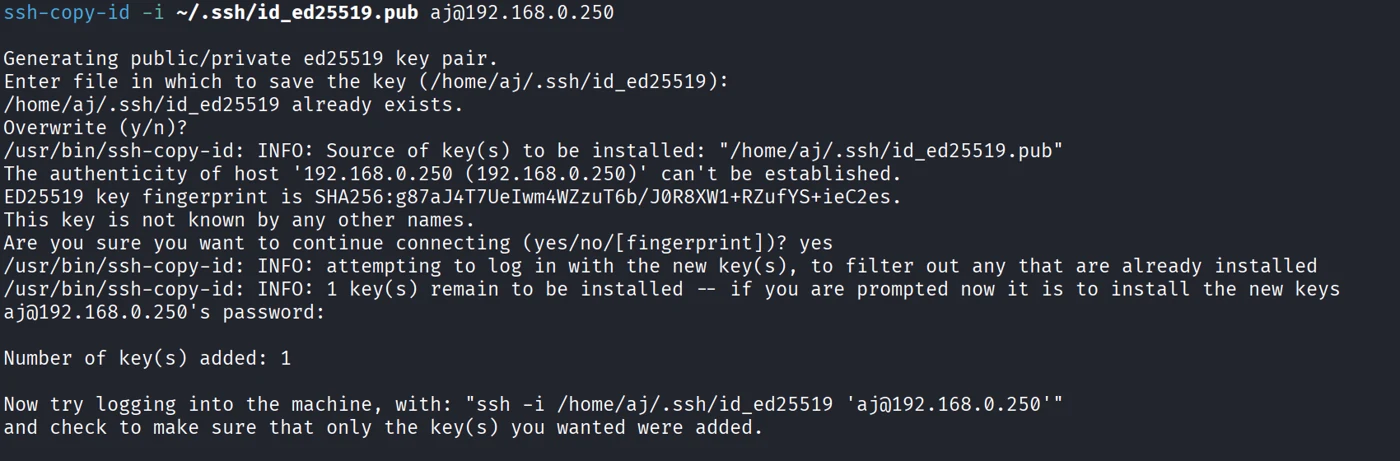
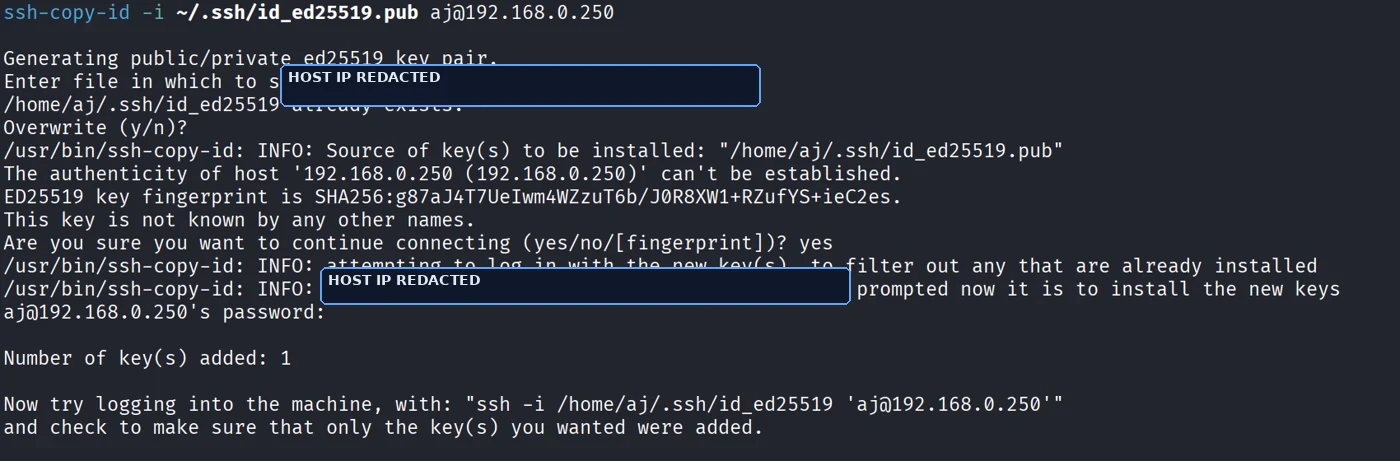
Linux lab
added 6.13.26
added linux lab to website

Changed region(s): [[0.1843, 0.1215, 0.5529, 0.243], [0.215, 0.577, 0.6143, 0.6681]]

diff --git a/website/linux-hardening-case-study.html b/website/linux-hardening-case-study.html
@@ -76,8 +76,8 @@
               <h2 class="text-2xl font-semibold text-white mb-3">Lab context and design</h2>
               <p class="text-aj-ink-soft mb-4">This project hardens an Ubuntu host used for administration in a lab environment. The defensive design is simple and intentional: leave outbound traffic available, deny inbound traffic by default, allow SSH only from a trusted Kali host, then move SSH to key-only access and validate that recovery steps exist if anything breaks.</p>
               <ul class="text-aj-ink-soft text-sm space-y-2 list-disc ml-5">
-                <li><strong class="text-white">System being hardened:</strong> Ubuntu / Wazuh Manager host at <code class="text-slate-300">192.168.0.250</code></li>
-                <li><strong class="text-white">Trusted admin host:</strong> Kali Linux at <code class="text-slate-300">192.168.0.93</code></li>
+                <li><strong class="text-white">System being hardened:</strong> Ubuntu / Wazuh Manager host at <code class="text-slate-300"><HOST_IP></code></li>
+                <li><strong class="text-white">Trusted admin host:</strong> Kali Linux at <code class="text-slate-300"><ADMIN_IP></code></li>
                 <li><strong class="text-white">Core services:</strong> UFW and OpenSSH</li>
               </ul>
             </div>
@@ -157,7 +157,7 @@
               <img src="assets/linux-hardening/rollback-sequence.webp" alt="Composite image showing numbered UFW status, deletion of the SSH rule, UFW reset, UFW disable, and SSH restart steps used for rollback and recovery." />
               <figcaption>Rollback sequence: review the rule, delete it if necessary, reset or disable UFW, and restart SSH after configuration changes.</figcaption>
             </figure>
-            <div class="callout mt-4"><strong class="text-white">Recruiter takeaway:</strong> This project is not only about hardening. It also demonstrates change discipline and the ability to leave another analyst or administrator with a recovery path.</div>
+            <div class="callout mt-4"><strong class="text-white">Security Operations Value:</strong> This project is not only about hardening. It also demonstrates change discipline and the ability to leave another analyst or administrator with a recovery path.</div>
           </article>
 
           <article class="bg-aj-panel border border-slate-700 rounded-3xl p-6 sm:p-8">
@@ -170,7 +170,7 @@
               <a class="badge hover:text-white" href="assets/labs/Linux-Hardening-Backout-Recovery.pdf" target="_blank" rel="noopener noreferrer">Back-out recovery PDF</a>
             </div>
             <details class="rounded-2xl border border-slate-700 bg-slate-950/40 p-4">
-              <summary class="cursor-pointer text-white font-semibold">What this project proves</summary>
+              <summary class="cursor-pointer text-white font-semibold">What this demonstrates</summary>
               <ul class="mt-3 text-aj-ink-soft">
                 <li>Ability to implement least-privilege remote administration controls on Linux.</li>
                 <li>Comfort with firewall policy, SSH daemon configuration, and service validation.</li>

diff --git a/README.md b/README.md
@@ -6,7 +6,7 @@ This project implements a secure Linux remote-administration baseline using **UF
 
 The objective was not just to harden a host. It was to demonstrate a full operational workflow: identify the exposure, apply the controls, verify that legitimate administration still works, and leave behind recovery steps another analyst or administrator could follow safely.
 
-> **Recruiter takeaway:** This project demonstrates least privilege, secure remote administration, Linux hardening, change discipline, validation, and recovery planning — all directly relevant to SOC, IT Security, Endpoint Security, and Detection-focused roles.
+> **Project Value:** This project demonstrates practical Linux hardening and change-control thinking: applying least privilege, validating secure access, and documenting rollback steps so security improvements do not create unnecessary availability risk.
 
 ## Project Links
 
@@ -31,8 +31,8 @@ This project addresses that risk by moving the host to a more defensible baselin
 
 | Component | Role |
 |---|---|
-| Ubuntu / Wazuh Manager host (`192.168.0.250`) | System being hardened |
-| Kali Linux host (`192.168.0.93`) | Trusted administrative / test host |
+| Ubuntu / Wazuh Manager host (`<HOST_IP>`) | System being hardened |
+| Kali Linux host (`<ADMIN_IP>`) | Trusted administrative / test host |
 | UFW | Host firewall control |
 | OpenSSH Server | Remote administration service |
 | ED25519 SSH key | Key-based authentication |
@@ -126,6 +126,10 @@ linux-hardening-secure-access/
 - Rollback planning
 - Security documentation
 - Operational risk reduction
+
+## Sanitization Note
+
+Public artifacts use placeholders such as `<ADMIN_IP>`, `<HOST_IP>`, and `<USERNAME>` in written documentation. Screenshots have been redacted where lab-specific IP addresses appeared. The original lab used private RFC1918 addresses only.
 
 ## Safety Notice
 

diff --git a/docs/case-study.md b/docs/case-study.md
@@ -21,8 +21,8 @@ Remote administration often remains more open than it needs to be. A host that a
 
 ## Environment
 
-- **Target host:** Ubuntu / Wazuh Manager (`192.168.0.250`)
-- **Administrative host:** Kali Linux (`192.168.0.93`)
+- **Target host:** Ubuntu / Wazuh Manager (`<HOST_IP>`)
+- **Administrative host:** Kali Linux (`<ADMIN_IP>`)
 - **Services:** UFW, OpenSSH Server
 - **Authentication:** ED25519 key pair
 
@@ -69,9 +69,9 @@ This project demonstrates more than basic Linux commands. It shows how to apply 
 
 That matters in real teams, because a poorly executed security change can create an outage as easily as it reduces risk.
 
-## Recruiter Takeaway
+## What This Demonstrates
 
-This project proves the ability to:
+This project shows the ability to:
 
 - harden Linux administration paths
 - reduce attack surface
